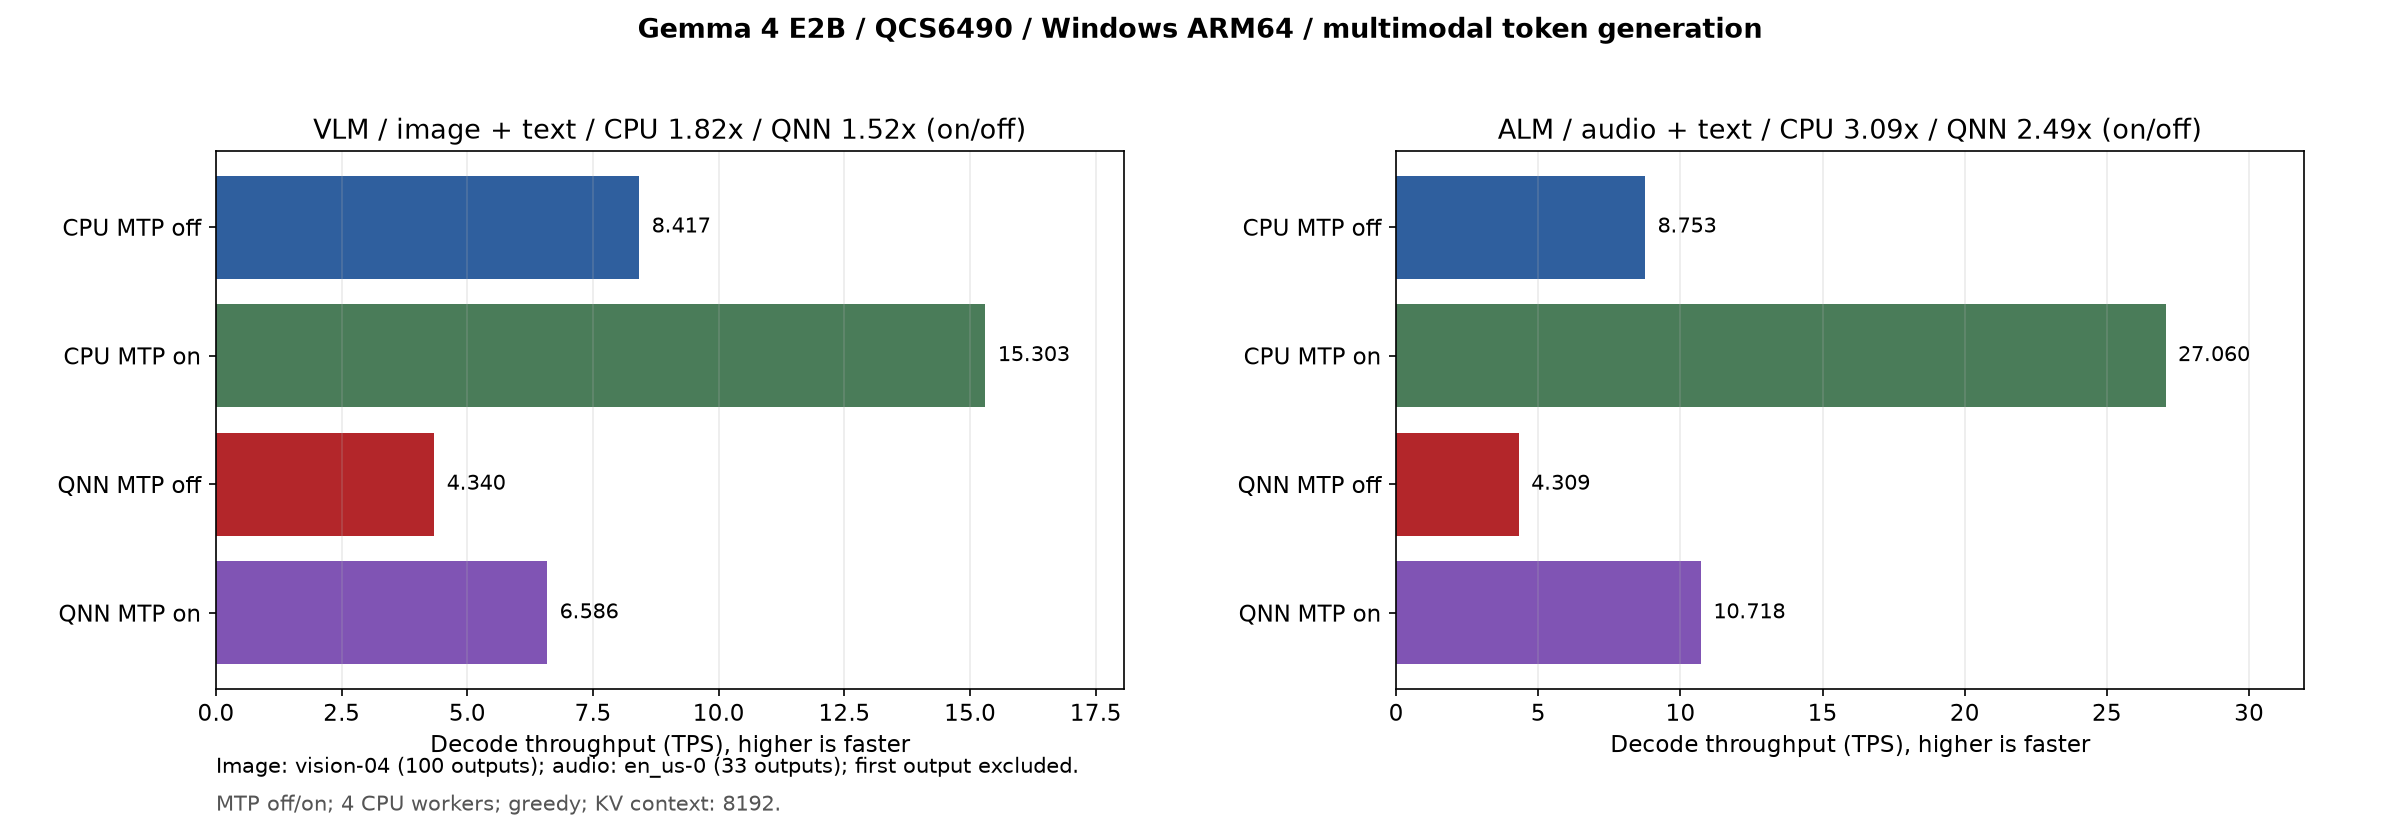
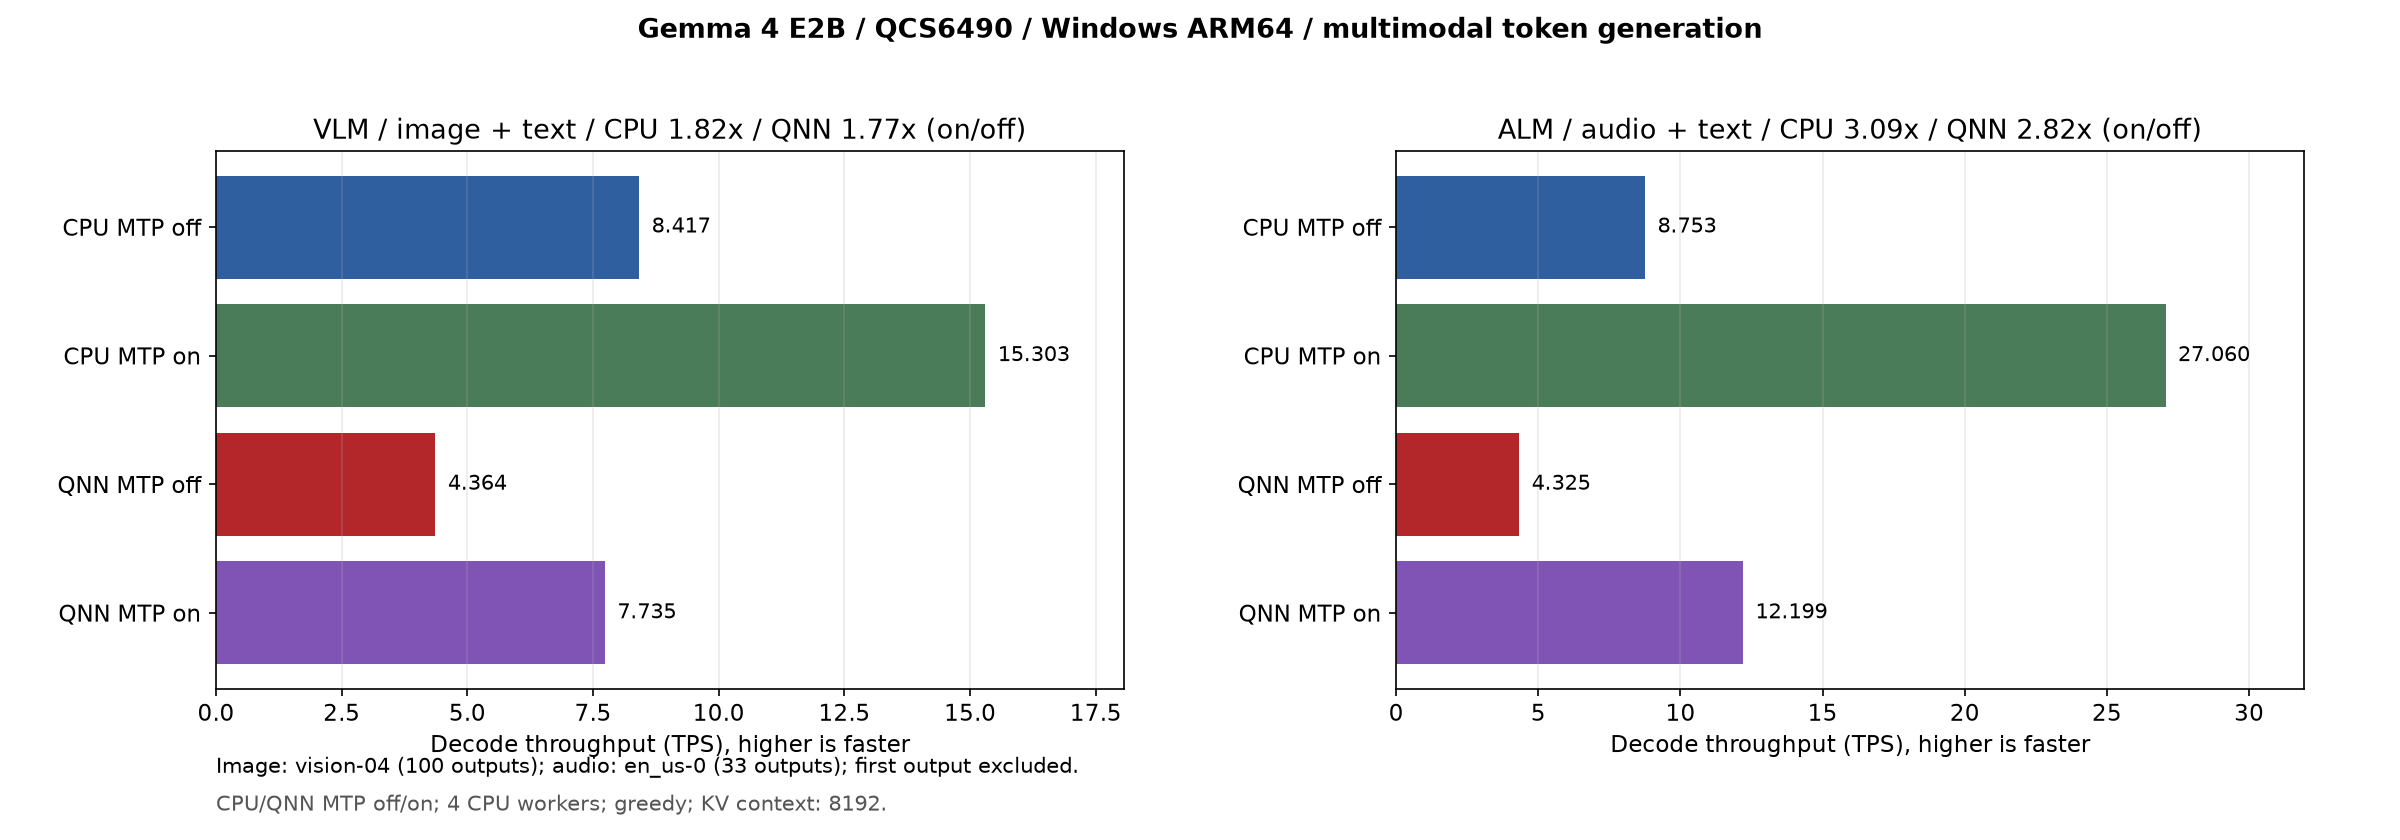
Refresh QCS6490 NPU results in MTP benchmark
Re-measured QCS6490 NPU runs with the v1.5.1 artifacts and updated the
decode, prefill, VLM / audio and CPU usage tables in both locales.
Replaced the nine QCS6490 MTP charts with the regenerated ones and
adjusted the MTP speedup ranges on the MTP guide and QNN pages.

diff --git a/llm/mtp-bench.html b/llm/mtp-bench.html
@@ -566,10 +566,10 @@ j=d.createElement(s),dl=l!='dataLayer'?'&l='+l:'';j.async=true;j.src=
     <table class="version-table">
       <tr><th>経路</th><th>MTP なし</th><th>MTP あり</th><th>MTP の効果</th><th>受理率</th></tr>
       <tr><td>CPU</td><td class="num">8.268 tokens/s</td><td class="num">12.551 tokens/s</td><td class="num">1.52 倍</td><td class="num">32.4%</td></tr>
-      <tr><td>NPU</td><td class="num">4.401 tokens/s</td><td class="num">7.289 tokens/s</td><td class="num">1.66 倍</td><td class="num">36.9%</td></tr>
+      <tr><td>NPU</td><td class="num">4.326 tokens/s</td><td class="num">7.131 tokens/s</td><td class="num">1.65 倍</td><td class="num">36.0%</td></tr>
     </table>
     </div>
-    <p>Decode は CPU が最も高速です。MTP により CPU が 1.52 倍、NPU が 1.66 倍になりました。</p>
+    <p>Decode は CPU が最も高速です。MTP により CPU が 1.52 倍、NPU が 1.65 倍になりました。</p>
     <figure class="bench-figure">
       <img src="benchmark/mtp_text_tps_qcs6490.png" alt="QCS6490 E2B の Decode スループット（1000 トークン生成、CPU / NPU、MTP なし / あり）" loading="lazy">
       <figcaption>QCS6490（E2B / Int16）の Decode スループット（1000 トークン生成）</figcaption>
@@ -585,11 +585,11 @@ j=d.createElement(s),dl=l!='dataLayer'?'&l='+l:'';j.async=true;j.src=
       <tr><th>経路</th><th>64</th><th>128</th><th>256</th><th>512</th><th>1024</th><th>2048</th></tr>
       <tr><td>CPU（MTP なし）</td><td class="num">69.899</td><td class="num">72.120</td><td class="num">68.605</td><td class="num">64.913</td><td class="num">59.277</td><td class="num">53.487</td></tr>
       <tr><td>CPU（MTP あり）</td><td class="num">64.226</td><td class="num">66.437</td><td class="num">59.173</td><td class="num">63.920</td><td class="num">54.278</td><td class="num">54.221</td></tr>
-      <tr><td>NPU（MTP なし）</td><td class="num">53.211</td><td class="num">105.854</td><td class="num">197.664</td><td class="num">211.179</td><td class="num">214.442</td><td class="num">212.110</td></tr>
-      <tr><td>NPU（MTP あり）</td><td class="num">45.300</td><td class="num">89.782</td><td class="num">189.393</td><td class="num">189.008</td><td class="num">193.163</td><td class="num">203.766</td></tr>
+      <tr><td>NPU（MTP なし）</td><td class="num">54.430</td><td class="num">101.921</td><td class="num">211.349</td><td class="num">212.480</td><td class="num">214.039</td><td class="num">211.759</td></tr>
+      <tr><td>NPU（MTP あり）</td><td class="num">54.091</td><td class="num">109.916</td><td class="num">215.555</td><td class="num">214.996</td><td class="num">214.028</td><td class="num">213.825</td></tr>
     </table>
     </div>
-    <p>128 トークン以上の入力では NPU が最も高速で、2,048 トークン入力では CPU（MTP なし）の 3.97 倍です。NPU の Prefill は MTP ありで 0.85〜0.96 倍とやや低くなります。</p>
+    <p>128 トークン以上の入力では NPU が最も高速で、2,048 トークン入力では CPU（MTP なし）の 3.96 倍です。MTP の有無で NPU の Prefill はほぼ同じです。</p>
     <figure class="bench-figure">
       <img src="benchmark/mtp_pps_qcs6490.png" alt="QCS6490 E2B の Prefill スループット（2,048 トークン入力、CPU / NPU、MTP なし / あり）" loading="lazy">
       <figcaption>QCS6490（E2B / Int16）の Prefill スループット（2,048 トークン入力）</figcaption>
@@ -605,15 +605,15 @@ j=d.createElement(s),dl=l!='dataLayer'?'&l='+l:'';j.async=true;j.src=
       <tr><th>入力</th><th>経路</th><th>TTFT</th><th>Decode</th><th>受理率</th></tr>
       <tr><td>画像</td><td>CPU（MTP なし）</td><td class="num">84.75 秒</td><td class="num">8.417 tokens/s</td><td class="num">—</td></tr>
       <tr><td>画像</td><td>CPU（MTP あり）</td><td class="num">85.63 秒</td><td class="num">15.303 tokens/s</td><td class="num">41.7%</td></tr>
-      <tr><td>画像</td><td>NPU（MTP なし）</td><td class="num">8.88 秒</td><td class="num">4.340 tokens/s</td><td class="num">—</td></tr>
-      <tr><td>画像</td><td>NPU（MTP あり）</td><td class="num">8.04 秒</td><td class="num">6.586 tokens/s</td><td class="num">31.4%</td></tr>
+      <tr><td>画像</td><td>NPU（MTP なし）</td><td class="num">8.27 秒</td><td class="num">4.364 tokens/s</td><td class="num">—</td></tr>
+      <tr><td>画像</td><td>NPU（MTP あり）</td><td class="num">7.27 秒</td><td class="num">7.735 tokens/s</td><td class="num">41.7%</td></tr>
       <tr><td>音声</td><td>CPU（MTP なし）</td><td class="num">36.40 秒</td><td class="num">8.753 tokens/s</td><td class="num">—</td></tr>
       <tr><td>音声</td><td>CPU（MTP あり）</td><td class="num">36.81 秒</td><td class="num">27.060 tokens/s</td><td class="num">92.6%</td></tr>
-      <tr><td>音声</td><td>NPU（MTP なし）</td><td class="num">6.70 秒</td><td class="num">4.309 tokens/s</td><td class="num">—</td></tr>
-      <tr><td>音声</td><td>NPU（MTP あり）</td><td class="num">6.71 秒</td><td class="num">10.718 tokens/s</td><td class="num">92.6%</td></tr>
+      <tr><td>音声</td><td>NPU（MTP なし）</td><td class="num">6.25 秒</td><td class="num">4.325 tokens/s</td><td class="num">—</td></tr>
+      <tr><td>音声</td><td>NPU（MTP あり）</td><td class="num">6.19 秒</td><td class="num">12.199 tokens/s</td><td class="num">92.6%</td></tr>
     </table>
     </div>
-    <p>NPU の TTFT は CPU（MTP なし）の 1/10.5（画像）、1/5.4（音声）です。MTP により、NPU の Decode は画像入力で 1.52 倍、音声入力で 2.49 倍、CPU の Decode は画像入力で 1.82 倍、音声入力で 3.09 倍になりました。</p>
+    <p>NPU の TTFT は CPU（MTP なし）の 1/10.2（画像）、1/5.8（音声）です。MTP により、NPU の Decode は画像入力で 1.77 倍、音声入力で 2.82 倍、CPU の Decode は画像入力で 1.82 倍、音声入力で 3.09 倍になりました。</p>
     <figure class="bench-figure">
       <img src="benchmark/mtp_media_ttft_qcs6490.png" alt="QCS6490 E2B の VLM / 音声入力の TTFT 内訳（CPU / NPU、MTP なし / あり）" loading="lazy">
       <figcaption>QCS6490（E2B / Int16）の VLM（左）/ 音声入力（右）の TTFT 内訳（エンコーダを含むプロンプト設定と、デコーダの Prefill + 最初のトークン）</figcaption>
@@ -627,9 +627,9 @@ j=d.createElement(s),dl=l!='dataLayer'?'&l='+l:'';j.async=true;j.src=
     <div class="table-wrap">
     <table class="version-table">
       <tr><th>入力</th><th>CPU（MTP なし）</th><th>CPU（MTP あり）</th><th>NPU（MTP なし）</th><th>NPU（MTP あり）</th></tr>
-      <tr><td>テキスト</td><td class="num">47.9%</td><td class="num">47.9%</td><td class="num">0.6%</td><td class="num">1.2%</td></tr>
-      <tr><td>画像</td><td class="num">47.9%</td><td class="num">47.7%</td><td class="num">0.8%</td><td class="num">1.5%</td></tr>
-      <tr><td>音声</td><td class="num">47.9%</td><td class="num">47.1%</td><td class="num">1.0%</td><td class="num">2.1%</td></tr>
+      <tr><td>テキスト</td><td class="num">47.9%</td><td class="num">47.9%</td><td class="num">0.9%</td><td class="num">1.4%</td></tr>
+      <tr><td>画像</td><td class="num">47.9%</td><td class="num">47.7%</td><td class="num">0.9%</td><td class="num">1.4%</td></tr>
+      <tr><td>音声</td><td class="num">47.9%</td><td class="num">47.1%</td><td class="num">1.0%</td><td class="num">1.3%</td></tr>
     </table>
     </div>
     <p>CPU は高性能コアの 4 コアで実行しているため、CPU の使用率は 50% 前後です。</p>

diff --git a/en/llm/mtp-bench.html b/en/llm/mtp-bench.html
@@ -566,10 +566,10 @@ j=d.createElement(s),dl=l!='dataLayer'?'&l='+l:'';j.async=true;j.src=
     <table class="version-table">
       <tr><th>Path</th><th>Without MTP</th><th>With MTP</th><th>MTP speedup</th><th>Acceptance</th></tr>
       <tr><td>CPU</td><td class="num">8.268 tokens/s</td><td class="num">12.551 tokens/s</td><td class="num">1.52x</td><td class="num">32.4%</td></tr>
-      <tr><td>NPU</td><td class="num">4.401 tokens/s</td><td class="num">7.289 tokens/s</td><td class="num">1.66x</td><td class="num">36.9%</td></tr>
+      <tr><td>NPU</td><td class="num">4.326 tokens/s</td><td class="num">7.131 tokens/s</td><td class="num">1.65x</td><td class="num">36.0%</td></tr>
     </table>
     </div>
-    <p>Decode is fastest on the CPU. MTP made decode 1.52x on the CPU and 1.66x on the NPU.</p>
+    <p>Decode is fastest on the CPU. MTP made decode 1.52x on the CPU and 1.65x on the NPU.</p>
     <figure class="bench-figure">
       <img src="../../llm/benchmark/mtp_text_tps_qcs6490.png" alt="QCS6490 E2B decode throughput (1000 generated tokens, CPU / NPU, without / with MTP)" loading="lazy">
       <figcaption>QCS6490 (E2B / Int16) decode throughput (1000 generated tokens)</figcaption>
@@ -585,11 +585,11 @@ j=d.createElement(s),dl=l!='dataLayer'?'&l='+l:'';j.async=true;j.src=
       <tr><th>Path</th><th>64</th><th>128</th><th>256</th><th>512</th><th>1024</th><th>2048</th></tr>
       <tr><td>CPU (without MTP)</td><td class="num">69.899</td><td class="num">72.120</td><td class="num">68.605</td><td class="num">64.913</td><td class="num">59.277</td><td class="num">53.487</td></tr>
       <tr><td>CPU (with MTP)</td><td class="num">64.226</td><td class="num">66.437</td><td class="num">59.173</td><td class="num">63.920</td><td class="num">54.278</td><td class="num">54.221</td></tr>
-      <tr><td>NPU (without MTP)</td><td class="num">53.211</td><td class="num">105.854</td><td class="num">197.664</td><td class="num">211.179</td><td class="num">214.442</td><td class="num">212.110</td></tr>
-      <tr><td>NPU (with MTP)</td><td class="num">45.300</td><td class="num">89.782</td><td class="num">189.393</td><td class="num">189.008</td><td class="num">193.163</td><td class="num">203.766</td></tr>
+      <tr><td>NPU (without MTP)</td><td class="num">54.430</td><td class="num">101.921</td><td class="num">211.349</td><td class="num">212.480</td><td class="num">214.039</td><td class="num">211.759</td></tr>
+      <tr><td>NPU (with MTP)</td><td class="num">54.091</td><td class="num">109.916</td><td class="num">215.555</td><td class="num">214.996</td><td class="num">214.028</td><td class="num">213.825</td></tr>
     </table>
     </div>
-    <p>For inputs of 128 tokens or more the NPU is the fastest; for a 2,048-token input it is 3.97x the CPU (without MTP). NPU prefill is somewhat lower with MTP (0.85x to 0.96x).</p>
+    <p>For inputs of 128 tokens or more the NPU is the fastest; for a 2,048-token input it is 3.96x the CPU (without MTP). NPU prefill is almost the same with and without MTP.</p>
     <figure class="bench-figure">
       <img src="../../llm/benchmark/mtp_pps_qcs6490.png" alt="QCS6490 E2B prefill throughput (2,048-token input, CPU / NPU, without / with MTP)" loading="lazy">
       <figcaption>QCS6490 (E2B / Int16) prefill throughput (2,048-token input)</figcaption>
@@ -605,15 +605,15 @@ j=d.createElement(s),dl=l!='dataLayer'?'&l='+l:'';j.async=true;j.src=
       <tr><th>Input</th><th>Path</th><th>TTFT</th><th>Decode</th><th>Acceptance</th></tr>
       <tr><td>Image</td><td>CPU (without MTP)</td><td class="num">84.75 s</td><td class="num">8.417 tokens/s</td><td class="num">—</td></tr>
       <tr><td>Image</td><td>CPU (with MTP)</td><td class="num">85.63 s</td><td class="num">15.303 tokens/s</td><td class="num">41.7%</td></tr>
-      <tr><td>Image</td><td>NPU (without MTP)</td><td class="num">8.88 s</td><td class="num">4.340 tokens/s</td><td class="num">—</td></tr>
-      <tr><td>Image</td><td>NPU (with MTP)</td><td class="num">8.04 s</td><td class="num">6.586 tokens/s</td><td class="num">31.4%</td></tr>
+      <tr><td>Image</td><td>NPU (without MTP)</td><td class="num">8.27 s</td><td class="num">4.364 tokens/s</td><td class="num">—</td></tr>
+      <tr><td>Image</td><td>NPU (with MTP)</td><td class="num">7.27 s</td><td class="num">7.735 tokens/s</td><td class="num">41.7%</td></tr>
       <tr><td>Audio</td><td>CPU (without MTP)</td><td class="num">36.40 s</td><td class="num">8.753 tokens/s</td><td class="num">—</td></tr>
       <tr><td>Audio</td><td>CPU (with MTP)</td><td class="num">36.81 s</td><td class="num">27.060 tokens/s</td><td class="num">92.6%</td></tr>
-      <tr><td>Audio</td><td>NPU (without MTP)</td><td class="num">6.70 s</td><td class="num">4.309 tokens/s</td><td class="num">—</td></tr>
-      <tr><td>Audio</td><td>NPU (with MTP)</td><td class="num">6.71 s</td><td class="num">10.718 tokens/s</td><td class="num">92.6%</td></tr>
+      <tr><td>Audio</td><td>NPU (without MTP)</td><td class="num">6.25 s</td><td class="num">4.325 tokens/s</td><td class="num">—</td></tr>
+      <tr><td>Audio</td><td>NPU (with MTP)</td><td class="num">6.19 s</td><td class="num">12.199 tokens/s</td><td class="num">92.6%</td></tr>
     </table>
     </div>
-    <p>NPU TTFT is 1/10.5 (image) and 1/5.4 (audio) of the CPU (without MTP). With MTP, NPU decode became 1.52x for image input and 2.49x for audio input, and CPU decode became 1.82x and 3.09x.</p>
+    <p>NPU TTFT is 1/10.2 (image) and 1/5.8 (audio) of the CPU (without MTP). With MTP, NPU decode became 1.77x for image input and 2.82x for audio input, and CPU decode became 1.82x and 3.09x.</p>
     <figure class="bench-figure">
       <img src="../../llm/benchmark/mtp_media_ttft_qcs6490.png" alt="QCS6490 E2B VLM / audio input TTFT breakdown (CPU / NPU, without / with MTP)" loading="lazy">
       <figcaption>QCS6490 (E2B / Int16) VLM (left) and audio input (right) TTFT breakdown (prompt setup including the encoder, and decoder prefill plus the first token)</figcaption>
@@ -627,9 +627,9 @@ j=d.createElement(s),dl=l!='dataLayer'?'&l='+l:'';j.async=true;j.src=
     <div class="table-wrap">
     <table class="version-table">
       <tr><th>Input</th><th>CPU (without MTP)</th><th>CPU (with MTP)</th><th>NPU (without MTP)</th><th>NPU (with MTP)</th></tr>
-      <tr><td>Text</td><td class="num">47.9%</td><td class="num">47.9%</td><td class="num">0.6%</td><td class="num">1.2%</td></tr>
-      <tr><td>Image</td><td class="num">47.9%</td><td class="num">47.7%</td><td class="num">0.8%</td><td class="num">1.5%</td></tr>
-      <tr><td>Audio</td><td class="num">47.9%</td><td class="num">47.1%</td><td class="num">1.0%</td><td class="num">2.1%</td></tr>
+      <tr><td>Text</td><td class="num">47.9%</td><td class="num">47.9%</td><td class="num">0.9%</td><td class="num">1.4%</td></tr>
+      <tr><td>Image</td><td class="num">47.9%</td><td class="num">47.7%</td><td class="num">0.9%</td><td class="num">1.4%</td></tr>
+      <tr><td>Audio</td><td class="num">47.9%</td><td class="num">47.1%</td><td class="num">1.0%</td><td class="num">1.3%</td></tr>
     </table>
     </div>
     <p>The CPU runs on the 4 performance cores, so CPU usage stays around 50%.</p>

diff --git a/llm/mtp.html b/llm/mtp.html
@@ -83,7 +83,7 @@ j=d.createElement(s),dl=l!='dataLayer'?'&l='+l:'';j.async=true;j.src=
     <p>このページは <a href="qnn.html">ailia LLM NPU（QNN）ガイド</a> からの差分として、MTP に必要なモデルと API を説明します。NPU のセットアップ（QNN ランタイムの配置、Android の設定、SoC 名の取得）は QNN ガイドと共通です。測定結果は <a href="mtp-bench.html">ailia LLM MTP ベンチマーク</a> を参照してください。</p>
 
     <h2>MTP による Decode の高速化</h2>
-    <p>Gemma 4 E2B のテキスト生成では、MTP により NPU の Decode が Snapdragon 8+ Gen 1 で 1.61 倍、Snapdragon 7s Gen 3 で 1.58 倍、Snapdragon X Plus で 1.45 倍（E4B は 1.65 倍）になりました。音声の書き起こしでは 2.49〜3.38 倍（E2B）です。</p>
+    <p>Gemma 4 E2B のテキスト生成では、MTP により NPU の Decode が Snapdragon 8+ Gen 1 で 1.61 倍、Snapdragon 7s Gen 3 で 1.58 倍、Snapdragon X Plus で 1.45 倍（E4B は 1.65 倍）になりました。音声の書き起こしでは 2.57〜3.38 倍（E2B）です。</p>
     <p>QNN 単体（AR-1 による 1 トークンずつの生成）では、NPU の Decode は Prefill ほど速くならず、Android 端末でも CPU と同等か下回っていました。MTP では本体の 1 回の実行で複数トークンを確定できるため、Decode でも NPU の並列演算を利用できます。CPU（4 スレッド）でも MTP を使用でき、Snapdragon 7s Gen 3 の E2B では CPU の Decode も 1.35 倍になります。</p>
     <div class="hbar-chart">
       <div class="hbar-title">Snapdragon 8+ Gen 1（SM8475）E2B / FP16：テキスト生成の Decode</div>

diff --git a/en/llm/mtp.html b/en/llm/mtp.html
@@ -83,7 +83,7 @@ j=d.createElement(s),dl=l!='dataLayer'?'&l='+l:'';j.async=true;j.src=
     <p>This page describes the models and API needed for MTP as a delta from the <a href="qnn.html">ailia LLM NPU (QNN) Guide</a>. NPU setup (deploying the QNN runtime, Android configuration, getting the SoC name) is the same as in the QNN Guide. For measurements, see the <a href="mtp-bench.html">ailia LLM MTP Benchmark</a>.</p>
 
     <h2>Faster decode with MTP</h2>
-    <p>For Gemma 4 E2B text generation, MTP made NPU decode 1.61x on Snapdragon 8+ Gen 1, 1.58x on Snapdragon 7s Gen 3 and 1.45x on Snapdragon X Plus (1.65x for E4B). For audio transcription it is 2.49x to 3.38x (E2B).</p>
+    <p>For Gemma 4 E2B text generation, MTP made NPU decode 1.61x on Snapdragon 8+ Gen 1, 1.58x on Snapdragon 7s Gen 3 and 1.45x on Snapdragon X Plus (1.65x for E4B). For audio transcription it is 2.57x to 3.38x (E2B).</p>
     <p>With QNN alone (one-token-at-a-time generation with AR-1), NPU decode does not speed up as much as prefill, and even on Android devices it was equal to or slower than the CPU. With MTP, multiple tokens can be committed per main-model run, so decode can also use the NPU's parallel compute. MTP can also be used on the CPU (4 threads); for E2B on Snapdragon 7s Gen 3, CPU decode is also 1.35x.</p>
     <div class="hbar-chart">
       <div class="hbar-title">Snapdragon 8+ Gen 1 (SM8475) E2B / FP16: text generation decode</div>

diff --git a/llm/qnn.html b/llm/qnn.html
@@ -105,7 +105,7 @@ j=d.createElement(s),dl=l!='dataLayer'?'&l='+l:'';j.async=true;j.src=
       <strong>注意:</strong> QNN バックエンドは ailia LLM 1.5.0 以降で利用できます。
     </div>
     <div class="note">
-      <strong>MTP:</strong> ailia LLM 1.5.1 以降は MTP（Multi-Token Prediction）に対応し、NPU の Decode が Gemma 4 E2B で 1.45〜1.66 倍（音声の書き起こしでは 2.49〜3.38 倍）になります。使い方は <a href="mtp.html">ailia LLM MTP ガイド</a>、測定結果は <a href="mtp-bench.html">ailia LLM MTP ベンチマーク</a> を参照してください。
+      <strong>MTP:</strong> ailia LLM 1.5.1 以降は MTP（Multi-Token Prediction）に対応し、NPU の Decode が Gemma 4 E2B で 1.45〜1.65 倍（音声の書き起こしでは 2.57〜3.38 倍）になります。使い方は <a href="mtp.html">ailia LLM MTP ガイド</a>、測定結果は <a href="mtp-bench.html">ailia LLM MTP ベンチマーク</a> を参照してください。
     </div>
 
     <h2>対応プラットフォーム</h2>

diff --git a/en/llm/qnn.html b/en/llm/qnn.html
@@ -105,7 +105,7 @@ j=d.createElement(s),dl=l!='dataLayer'?'&l='+l:'';j.async=true;j.src=
       <strong>Note:</strong> The QNN backend is available in ailia LLM 1.5.0 and later.
     </div>
     <div class="note">
-      <strong>MTP:</strong> ailia LLM 1.5.1 and later support MTP (Multi-Token Prediction), which makes NPU decode 1.45x to 1.66x for Gemma 4 E2B (2.49x to 3.38x for audio transcription). See the <a href="mtp.html">ailia LLM MTP Guide</a> for usage and the <a href="mtp-bench.html">ailia LLM MTP Benchmark</a> for measurements.
+      <strong>MTP:</strong> ailia LLM 1.5.1 and later support MTP (Multi-Token Prediction), which makes NPU decode 1.45x to 1.65x for Gemma 4 E2B (2.57x to 3.38x for audio transcription). See the <a href="mtp.html">ailia LLM MTP Guide</a> for usage and the <a href="mtp-bench.html">ailia LLM MTP Benchmark</a> for measurements.
     </div>
 
     <h2>Supported Platforms</h2>
